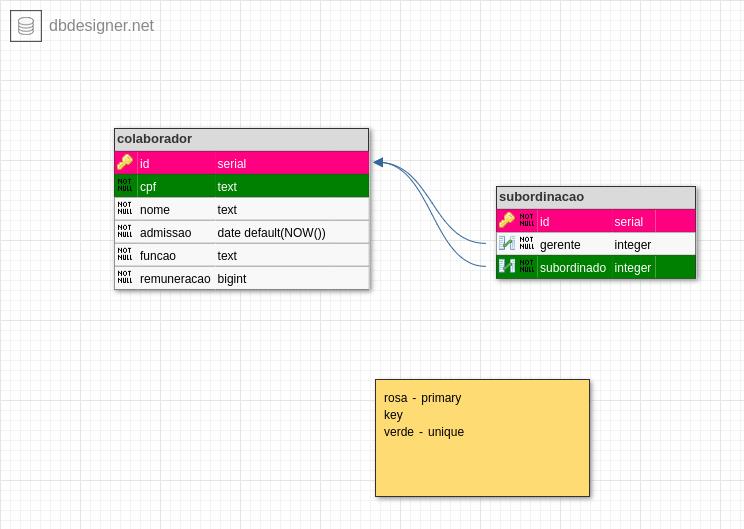
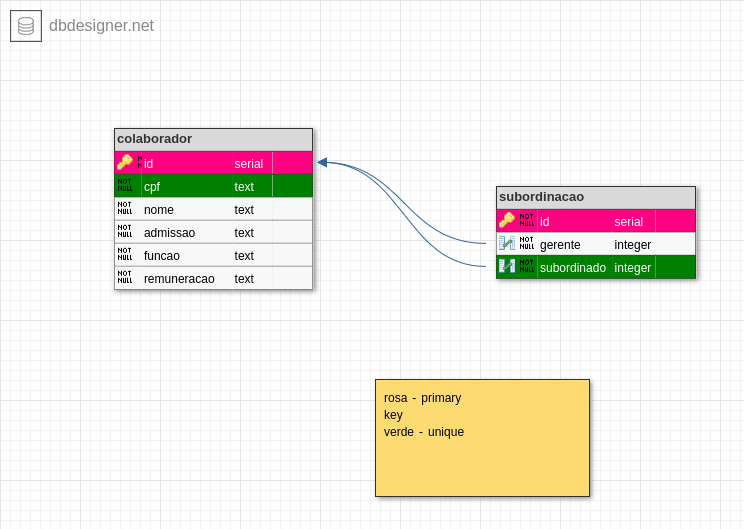
Correcao: reformulacao na modelagem da entidade Colaborador na data de admissao e remuneracao

diff --git a/colaboradores/src/main/java/api/colaboradores/model/Colaborador.java b/colaboradores/src/main/java/api/colaboradores/model/Colaborador.java
@@ -1,7 +1,5 @@
 package api.colaboradores.model;
 
-import java.util.Date;
-
 import api.colaboradores.dto.ColaboradorDTO;
 import jakarta.persistence.Column;
 import jakarta.persistence.Entity;
@@ -15,12 +13,12 @@ import lombok.Data;
 public class Colaborador {
   public Colaborador() {}
 
-  public Colaborador(ColaboradorDTO dto, Date admissao, Integer remuneracao) {
+  public Colaborador(ColaboradorDTO dto) {
     this.cpf = dto.cpf();
     this.nome = dto.nome();
-    this.admissao = admissao;
+    this.admissao = dto.admissao();
     this.funcao = dto.funcao();
-    this.remuneracao = remuneracao;
+    this.remuneracao = dto.remuneracao();
   }
 
   @Id
@@ -34,11 +32,11 @@ public class Colaborador {
   private String nome;
 
   @Column(nullable = false)
-  private Date admissao;
+  private String admissao;
 
   @Column(nullable = false)
   private String funcao;
 
   @Column(nullable = false)
-  private int remuneracao;
+  private String remuneracao;
 }
